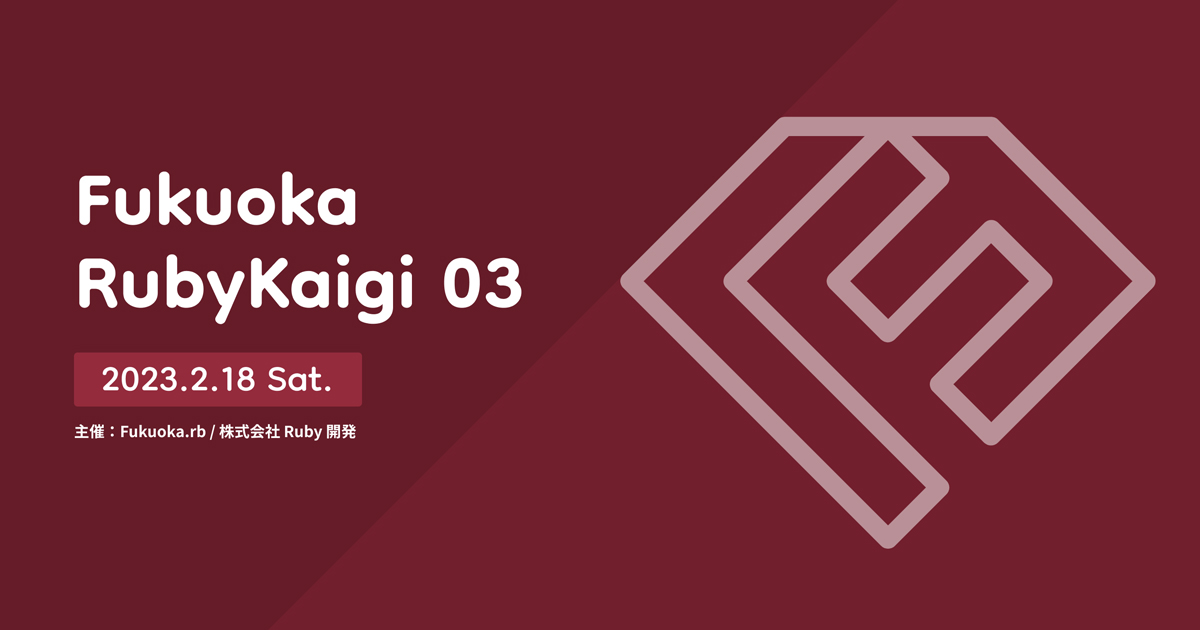
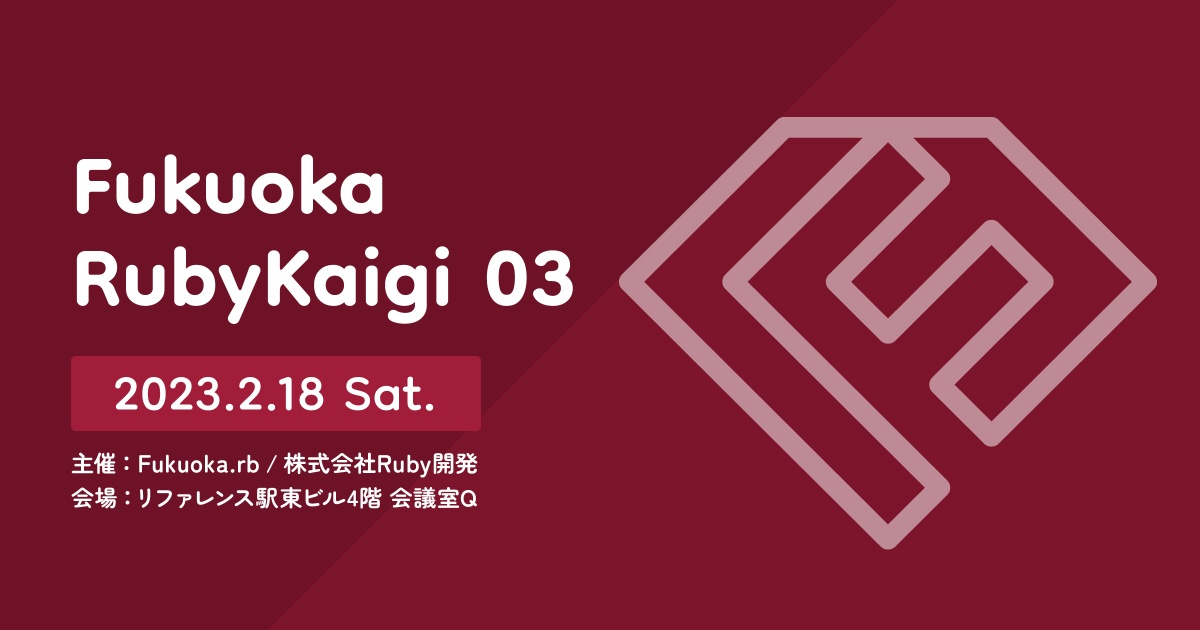
Add keynote speakers and more
* Add keynote speakers
* Add "Access" link
* Add venue information

diff --git a/fukuoka03/index.html b/fukuoka03/index.html
@@ -11,7 +11,7 @@
 <script src="https://code.jquery.com/jquery-3.6.0.min.js" integrity="sha256-/xUj+3OJU5yExlq6GSYGSHk7tPXikynS7ogEvDej/m4=" crossorigin="anonymous"></script>
 
 <link rel="stylesheet" href="css/default.css" type="text/css">
-<link rel="stylesheet" href="css/common.css" type="text/css">
+<link rel="stylesheet" href="css/common.css?2" type="text/css">
 <link rel="stylesheet" href="css/header.css" type="text/css">
 <link rel="stylesheet" href="css/footer.css" type="text/css">
 
@@ -48,7 +48,8 @@
   <div class="overlayMenuInner">
     <div class="overlayMenuItem">
         <ul>
-            <li><a href="index.html" onfocus="this.blur();">HOME</a></li>
+            <li><a href="index.html" onfocus="this.blur();">Home</a></li>
+            <li><a href="http://re-rental.com/ekihigashi/access/" target="_blank">Access</a></li>
             <li><a href="coc.html" onfocus="this.blur();">CoC</a></li>
             <li><a href="http://re-rental.com/ekihigashi/virus-measure/" target="_blank">COVID-19</a></li>
         </ul>
@@ -79,6 +80,7 @@
         </div>
         <nav id="gnav">
             <ul>
+                <li><a href="http://re-rental.com/ekihigashi/access/" target="_blank">Access</a></li>
                 <li><a href="coc.html">CoC</a></li>
                 <li><a href="http://re-rental.com/ekihigashi/virus-measure/" target="_blank">COVID-19</a></li>
                 <li><a href="https://twitter.com/Fukuoka_RK" target="_blank"><img src="images/common/sns_tw.svg" width="24" alt="" /></a></li>
@@ -91,12 +93,15 @@
 <div id="wrapper">
 
 <section class="top_contents_wrap">
-    <img src="images/top/title.png" width="500" alt="2023.2.18(Sat)開催 福岡Ruby会議03" />
+    <h1>
+        <img src="images/top/title.png" width="500" alt="福岡Ruby会議03 | 2023.2.18(Sat)開催 | 主催：Fukuoka.rb / 株式会社Ruby開発 | 会場：リファレンス駅東ビル4階 会議室Q " />
+    </h1>
 </section>
 
 
 
 <!-- テーマ -->
+<div id="theme"></div>
 <section class="contents_wrap">
     <h2 class="contents_title contents_title_theme">
         <span>テーマ</span>
@@ -114,6 +119,7 @@
 
 
 <!-- お知らせ -->
+<div id="news"></div>
 <section class="contents_wrap">
     <h2 class="contents_title contents_title_news">
         <span>お知らせ</span>
@@ -122,6 +128,36 @@
     <p class="">
         参加者の方々に水出し八女茶を提供いたします。また、数量限定ですが、温かい八女茶も提供いたします。極上の八女茶をコミニュケーションツールとして活用してください。
     </p>
+</section>
+
+
+
+<!-- Keynote Speakers -->
+<div id="keynotespeakers"></div>
+<section class="contents_wrap">
+    <h2 class="contents_title contents_title_keynote">
+        基調講演
+    </h2>
+    <div class="keynote_speakers_flex">
+        <div class="keynote_speakers_item">
+            <img src="images/keynote/soraha.png" alt="" />
+            <p class="keynote_speakers_name">そらは</p>
+            <ul class="keynote_speakers_sns_list">
+                <li><a href="https://twitter.com/sora_h" target="_blank"><img src="images/common/profile_tw.svg" alt="" /></a></li>
+                <li><a href="https://github.com/sorah" target="_blank"><img src="images/common/profile_gh.svg" alt="" /></a></li>
+            </ul>
+            <p class="keynote_speakers_text">Cookpad JP SRE と Global Corporate Engineering Team の Staff Software Engineer。<br/>RubyKaigi Organizer として各種渉外からバーチャル会場や Wi-Fi も担当。<br/>趣味は IP ネットワークで AS59128 の運用なども。Rubyist でありまた Rustacean wannabe。</p>
+        </div>
+        <div class="keynote_speakers_item">
+            <img src="images/keynote/tompng.png" alt="" />
+            <p class="keynote_speakers_name">tompng</p>
+            <ul class="keynote_speakers_sns_list">
+                <li><a href="https://twitter.com/tompng" target="_blank"><img src="images/common/profile_tw.svg" alt="" /></a></li>
+                <li><a href="https://github.com/tompng" target="_blank"><img src="images/common/profile_gh.svg" alt="" /></a></li>
+            </ul>
+            <p class="keynote_speakers_text">TRICK 2022 Gold Medalist</p>
+        </div>
+    </div>
 </section>
 
 

diff --git a/fukuoka03/css/common.css b/fukuoka03/css/common.css
@@ -92,7 +92,7 @@ a.text_link:hover{
     position: relative;
     width: 1080px;
     margin: 0px auto 0;
-    padding: 180px 0 120px;
+    padding: 180px 0 90px;
 }
 
 /* ★★★★★★★★★★ コンテンツ ★★★★★★★★★★ */
@@ -121,13 +121,15 @@ h2.contents_title{
 }
 h2.contents_title span{
     display: block;
+    margin: 0 0 10px;
     font-size: 16px;
+    line-height: 1.3em;
 }
 .contents_title::before {
     content: '';
     display: block;
     width: 160px;
-    padding: 10px 0 0px;
+    padding: 20px 0 0px;
     border-top: solid 1px rgba(255,255,255,0.2);
 }
 
@@ -137,7 +139,7 @@ h2.contents_title span{
     left: -105px;
     display: block;
     font-family: 'Dongle', sans-serif;
-    font-size: 120px;
+    font-size: 115px;
     font-weight: bold;
     transform: rotate(90deg);
     transform-origin: left top;
@@ -152,6 +154,59 @@ h2.contents_title span{
 .contents_title_coc::after {
     content: "Code of Conducts";
 }
+.contents_title_keynote::after {
+    content: "Keynote Speakers";
+}
+
+
+/* ★★★★★★★★★★ TOP_キーノートスピーカー ★★★★★★★★★★ */
+.keynote_speakers_flex{
+    display: flex;
+    flex-wrap: wrap;
+}
+.keynote_speakers_item{
+    width: 45%;
+    margin: 0 10% 0 0;
+}
+.keynote_speakers_item:last-of-type{
+    width: 45%;
+    margin: 0 0% 0 0;
+}
+.keynote_speakers_item img{
+    width: 240px;
+    height: auto;
+    border-radius: 4px;
+}
+.keynote_speakers_name{
+    margin: 0.25em 0 0.5em;
+    font-size: 21px;
+    font-weight: bold;
+    line-height: 1.2em;
+}
+.keynote_speakers_sns_list{
+    display: flex;
+    flex-wrap: wrap;
+    margin: 0 0 5px 0;
+}
+.keynote_speakers_sns_list li{
+    margin: 0 10px 0 0;
+}
+.keynote_speakers_sns_list li a{
+    display: block;
+    width: 30px;
+    transition: 0.5s;
+}
+.keynote_speakers_sns_list li a:hover{
+    opacity: 0.5;
+}
+.keynote_speakers_sns_list li a img{
+    width: 100%;
+    height: auto;
+}
+.keynote_speakers_text{
+    margin: 0;
+}
+
 
 
 }
@@ -180,7 +235,7 @@ body::after {
     width: calc(100% - 100px);
     max-width: 800px;
     margin: 0px auto 0;
-    padding: 100px 0 120px;
+    padding: 100px 0 90px;
 }
 .top_contents_wrap img{
     width: 50%;
@@ -213,13 +268,15 @@ h2.contents_title{
 }
 h2.contents_title span{
     display: block;
+    margin: 0 0 10px;
     font-size: 16px;
+    line-height: 1.3em;
 }
 .contents_title::before {
     content: '';
     display: block;
     width: 160px;
-    padding: 10px 0 0px;
+    padding: 20px 0 0px;
     border-top: solid 1px rgba(255,255,255,0.2);
 }
 
@@ -321,7 +378,7 @@ a.text_link:hover{
     position: relative;
     width: 84%;
     margin: 0px 0 0;
-    padding: 70px 5% 180px;
+    padding: 70px 5% 150px;
 }
 .top_contents_wrap img{
     width: 100%;
@@ -353,14 +410,15 @@ h2.contents_title{
 }
 h2.contents_title span{
     display: block;
+    margin: 0 0 10px;
     font-size: 13px;
-    margin: 0.5em 0 0.75em;
+    line-height: 1.3em;
 }
 .contents_title::before {
     content: '';
     display: block;
     width: 90px;
-    padding: 10px 0 0px;
+    padding: 20px 0 0px;
     border-top: solid 1px rgba(255,255,255,0.2);
 }
 
@@ -387,6 +445,52 @@ h2.contents_title span{
 }
 
 
+
+
+/* ★★★★★★★★★★ TOP_キーノートスピーカー ★★★★★★★★★★ */
+.keynote_speakers_item{
+    width: 100%;
+    margin: 0 0 40px 0;
+}
+.keynote_speakers_item:last-of-type{
+    width: 100%;
+    margin: 0 0 0px 0;
+}
+.keynote_speakers_item img{
+    margin: 0 auto;
+    width: 210px;
+    height: auto;
+    border-radius: 4px;
+}
+.keynote_speakers_name{
+    margin: 0.25em 0 0.5em;
+    font-size: 18px;
+    font-weight: bold;
+    line-height: 1.2em;
+}
+.keynote_speakers_sns_list{
+    display: flex;
+    flex-wrap: wrap;
+    margin: 0 0 0px 0;
+}
+.keynote_speakers_sns_list li{
+    margin: 0 10px 0 0;
+}
+.keynote_speakers_sns_list li a{
+    display: block;
+    width: 27px;
+    transition: 0.5s;
+}
+.keynote_speakers_sns_list li a:hover{
+    opacity: 0.5;
+}
+.keynote_speakers_sns_list li a img{
+    width: 100%;
+    height: auto;
+}
+.keynote_speakers_text{
+    margin: 0;
+}
 
 
 

diff --git a/fukuoka03/coc.html b/fukuoka03/coc.html
@@ -11,7 +11,7 @@
 <script src="https://code.jquery.com/jquery-3.6.0.min.js" integrity="sha256-/xUj+3OJU5yExlq6GSYGSHk7tPXikynS7ogEvDej/m4=" crossorigin="anonymous"></script>
 
 <link rel="stylesheet" href="css/default.css" type="text/css">
-<link rel="stylesheet" href="css/common.css" type="text/css">
+<link rel="stylesheet" href="css/common.css?2" type="text/css">
 <link rel="stylesheet" href="css/header.css" type="text/css">
 <link rel="stylesheet" href="css/footer.css" type="text/css">
 
@@ -48,7 +48,8 @@
   <div class="overlayMenuInner">
     <div class="overlayMenuItem">
         <ul>
-            <li><a href="index.html" onfocus="this.blur();">HOME</a></li>
+            <li><a href="index.html" onfocus="this.blur();">Home</a></li>
+            <li><a href="http://re-rental.com/ekihigashi/access/" target="_blank">Access</a></li>
             <li><a href="coc.html" onfocus="this.blur();">CoC</a></li>
             <li><a href="http://re-rental.com/ekihigashi/virus-measure/" target="_blank">COVID-19</a></li>
         </ul>
@@ -79,6 +80,7 @@
         </div>
         <nav id="gnav">
             <ul>
+                <li><a href="http://re-rental.com/ekihigashi/access/" target="_blank">Access</a></li>
                 <li><a href="coc.html">CoC</a></li>
                 <li><a href="http://re-rental.com/ekihigashi/virus-measure/" target="_blank">COVID-19</a></li>
                 <li><a href="https://twitter.com/Fukuoka_RK" target="_blank"><img src="images/common/sns_tw.svg" width="24" alt="" /></a></li>
